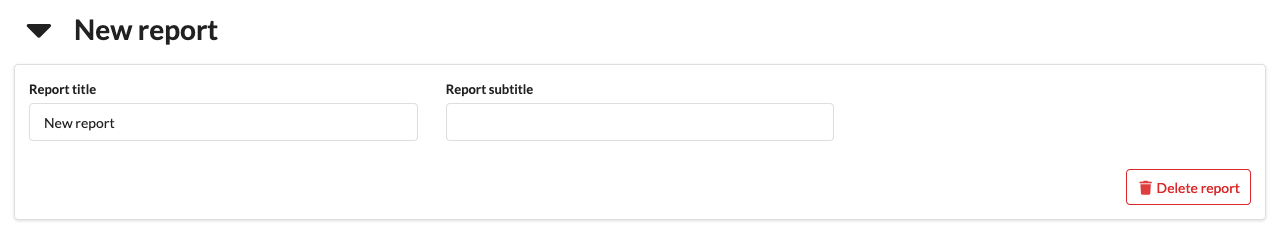
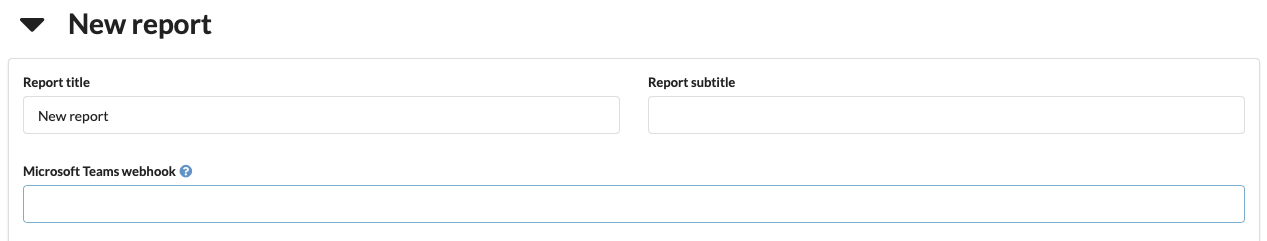
Improve documentation.

diff --git a/components/frontend/src/report/ReportTitle.js b/components/frontend/src/report/ReportTitle.js
@@ -1,11 +1,12 @@
 import React from 'react';
-import { Grid } from 'semantic-ui-react';
+import { Grid, Icon } from 'semantic-ui-react';
 import { StringInput } from '../fields/StringInput';
 import { HeaderWithDetails } from '../widgets/HeaderWithDetails';
 import { ChangeLog } from '../changelog/ChangeLog';
 import { DeleteButton, DownloadAsPDFButton } from '../widgets/Button';
 import { delete_report, set_report_attribute } from '../api/report';
 import { ReadOnlyOrEditable } from '../context/ReadOnly';
+import { HyperLink } from '../widgets/HyperLink';
 
 export function ReportTitle(props) {
     const report_uuid = props.report.report_uuid;
@@ -45,14 +46,16 @@ export function ReportTitle(props) {
         )
     }
     function NotifierRow() {
+        const help_url = "https://docs.microsoft.com/en-us/microsoftteams/platform/webhooks-and-connectors/how-to/add-incoming-webhook";
+        const label = <label>Microsoft Teams webhook <HyperLink url={help_url}><Icon name="help circle" link /></HyperLink></label>;
         return (
             <Grid.Row>
                 <Grid.Column>
                     <StringInput
-                        label="Teams Webhook"
+                        label={label}
                         set_value={(value) => {
-                            set_report_attribute(report_uuid, "teams_webhook", value, props.reload);
-                            set_report_attribute(report_uuid, "url", window.location.href, props.reload)
+                            set_report_attribute(report_uuid, "teams_webhook", value, props.reload).then(
+                            set_report_attribute(report_uuid, "url", window.location.href, props.reload))
                         }}
                         value={props.report.teams_webhook}
                     />

diff --git a/components/notifier/src/destinations/ms_teams.py b/components/notifier/src/destinations/ms_teams.py
@@ -15,7 +15,7 @@ def build_notification_text(text_parameters) -> str:
     plural_s = "s" if nr_red > 1 else ""
     report_link = f'[{text_parameters["report_title"]}]({text_parameters["url"]})'
     salutation = random.choice(SALUTATIONS)  # nosec, Not used for cryptography
-    return f'{salutation}, {report_link} has {nr_red} _new_ red metric{plural_s}.'
+    return f'{salutation}, {report_link} has {nr_red} metric{plural_s} that turned red.'
 
 
 def send_notification_to_teams(destination: str, text: str) -> None:

diff --git a/components/notifier/tests/destinations/test_teams.py b/components/notifier/tests/destinations/test_teams.py
@@ -32,5 +32,5 @@ class BuildNotificationTextTests(TestCase):
         text = build_notification_text(
             dict(report_uuid="report1", report_title="Report 1", new_red_metrics=2, url="http://report1"))
         salutation, contents = text.split(", ")
-        self.assertEqual("[Report 1](http://report1) has 2 _new_ red metrics.", contents)
+        self.assertEqual("[Report 1](http://report1) has 2 metrics that turned red.", contents)
         self.assertIn(salutation, SALUTATIONS)

diff --git a/docs/USAGE.md b/docs/USAGE.md
@@ -60,6 +60,10 @@ To change the title or subtitle of a report, expand the report header and simply
 
 ![Editing report screenshot](screenshots/editing_report.png)
 
+#### Configuring notifications
+
+*Quality-time* can send notifications about metrics that turned red, i.e. that don't meet their target, to Microsoft Teams channels. To enable notifications for a report, expand the report header and paste a [Microsoft Teams webhook](https://docs.microsoft.com/en-us/microsoftteams/platform/webhooks-and-connectors/how-to/add-incoming-webhook).
+
 #### Deleting reports
 
 To delete a report expand the report header and click the "Delete report" button. The report and all its subjects is deleted.
